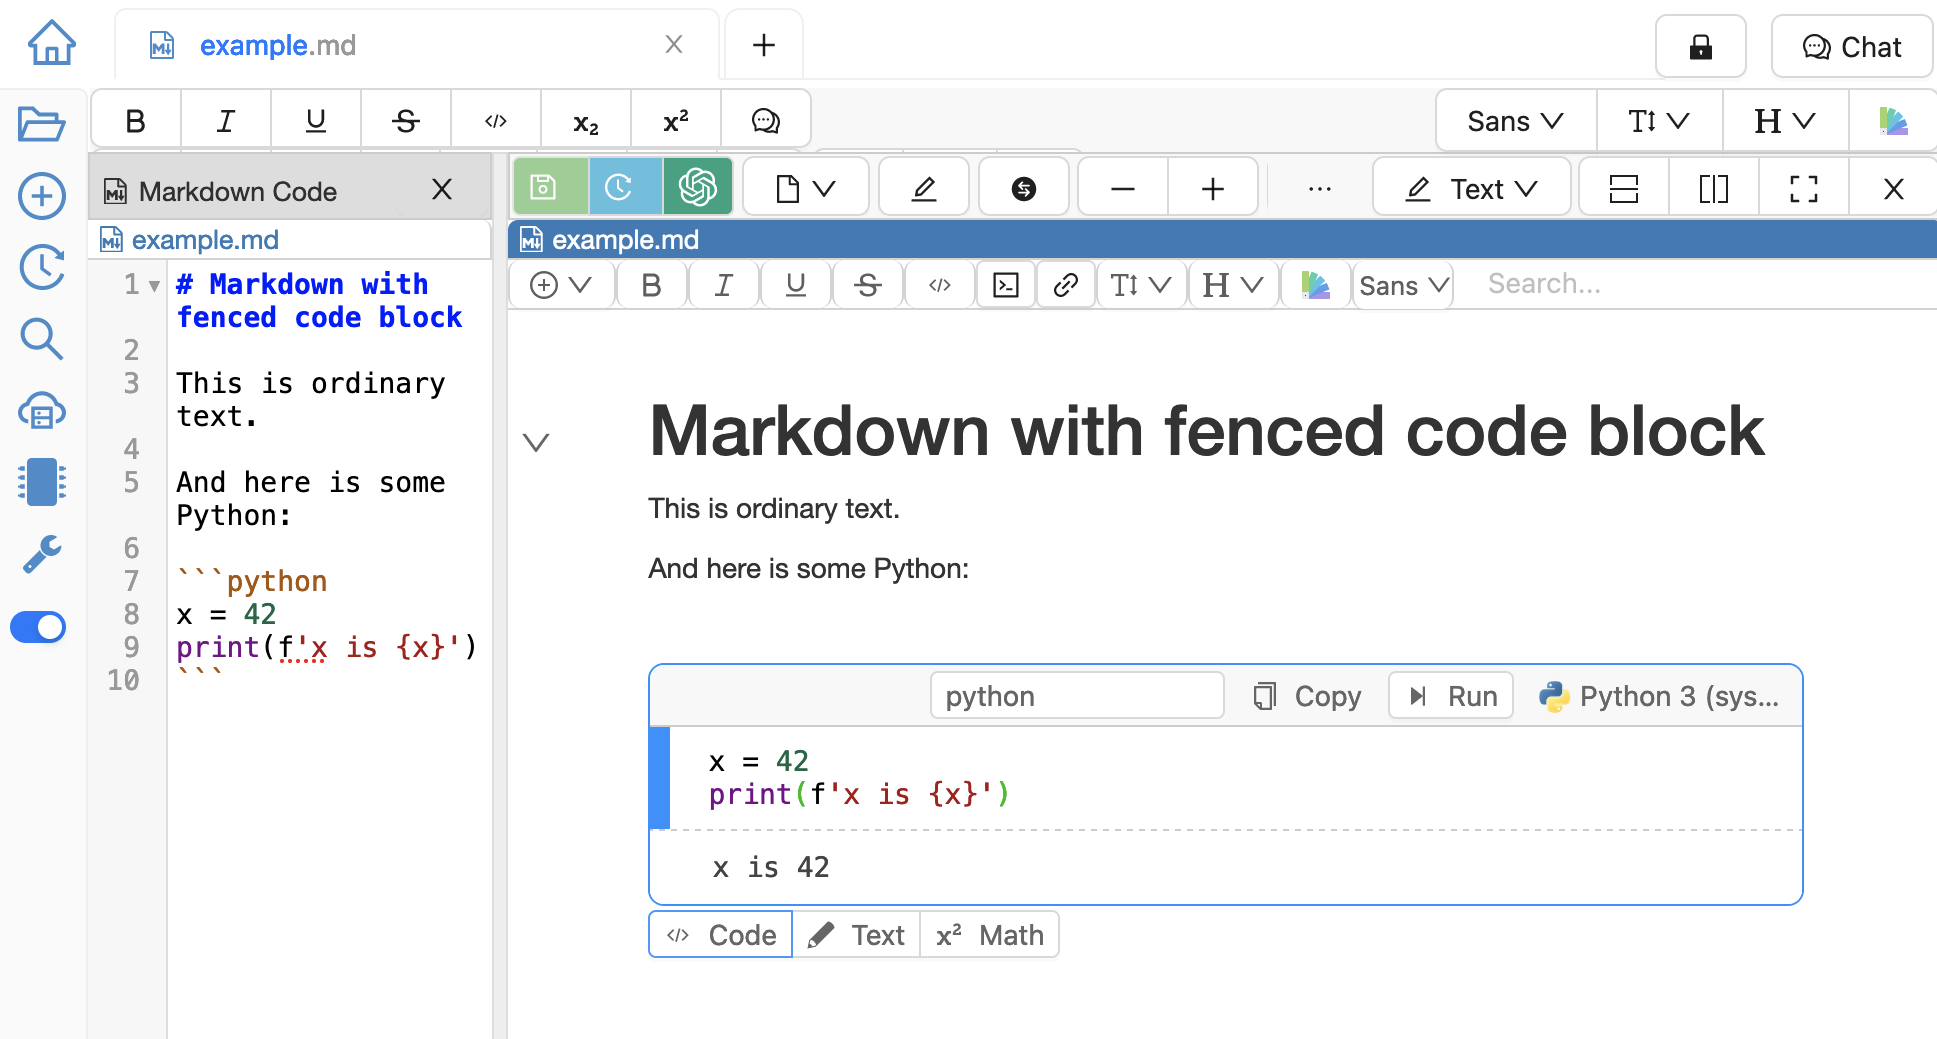
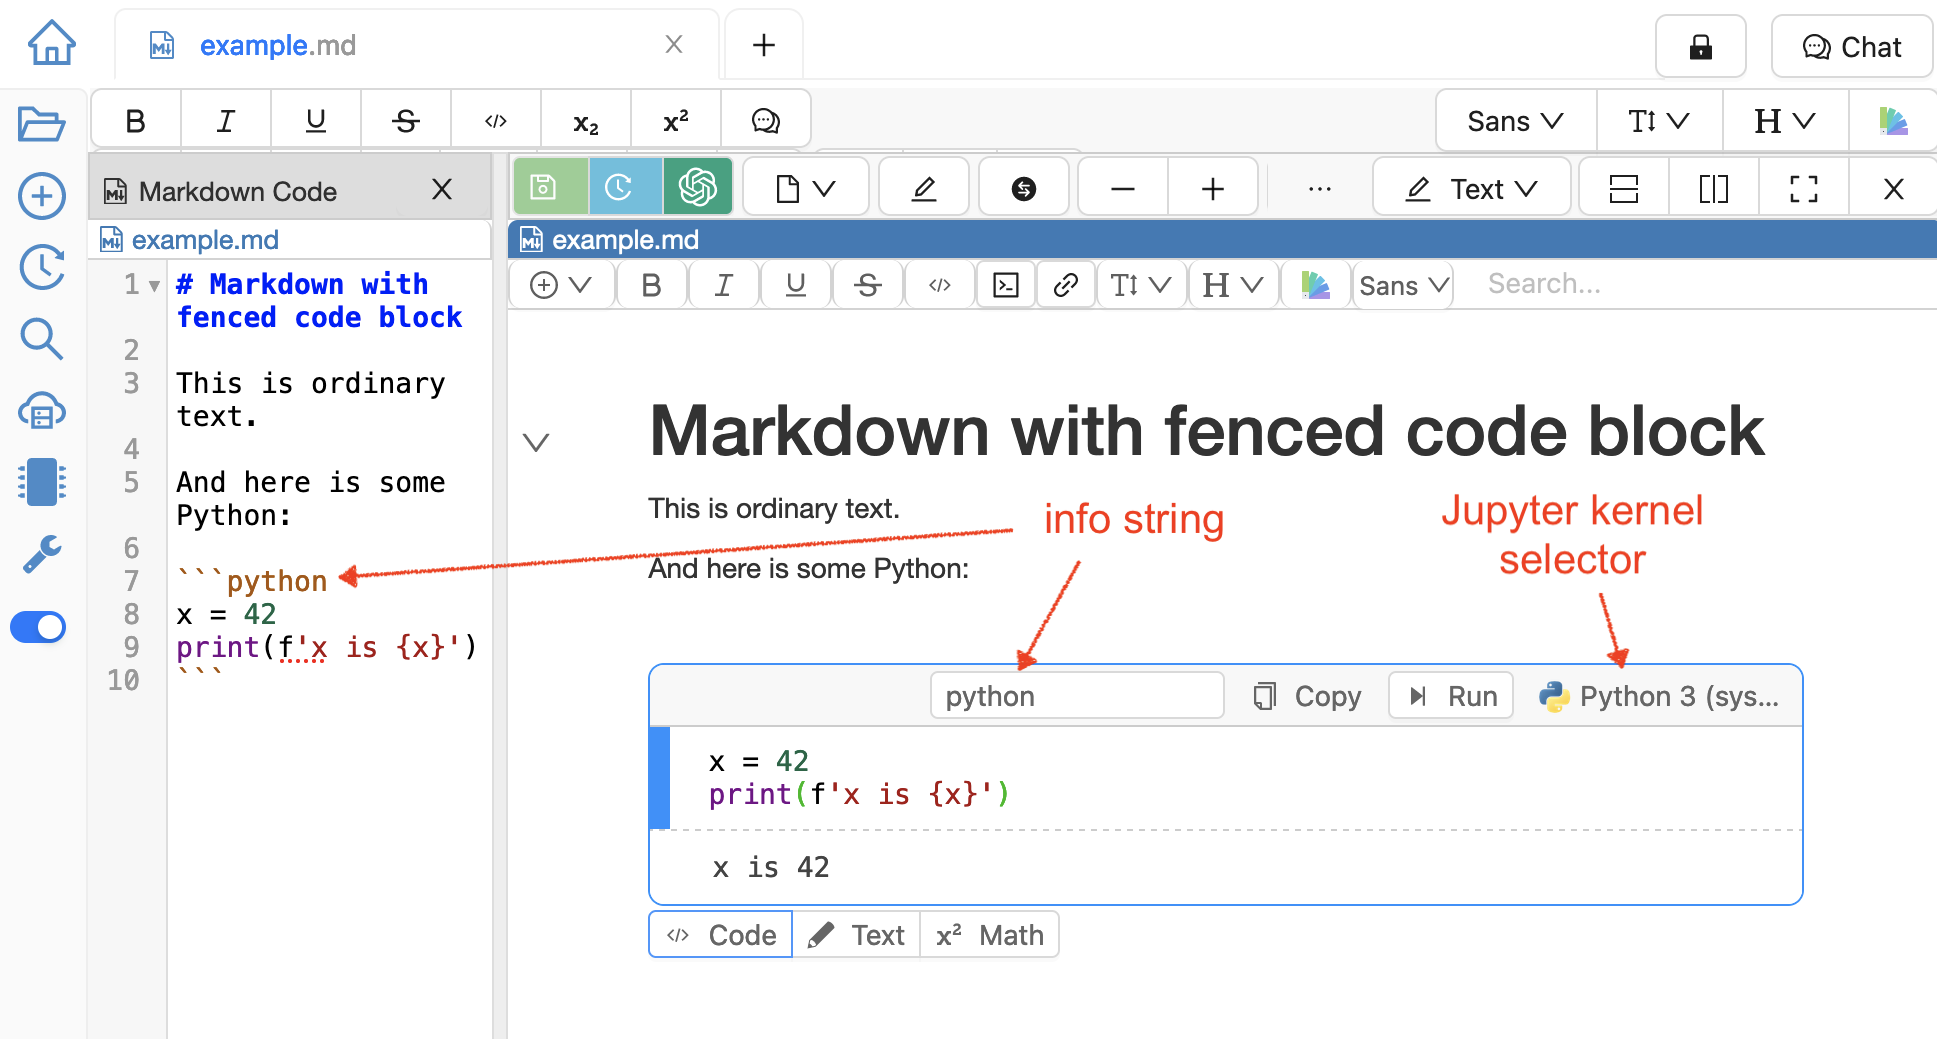
info strings

diff --git a/source/markdown.rst b/source/markdown.rst
@@ -135,12 +135,28 @@ Fenced Code Blocks
 
 Code in fenced code blocks can be executed using any available jupyter kernel. In the example, the "Python 3 (system wide)" kernel is active. Hover your cursor over the kernel indicator to expose a menu for selecting other kernels. Click "Run" to produce the output. Hover over the space below the output to get buttons for additional code cells. This feature even works if the document is published.
 
+The info string should start with the programming language want to use, for example "python", "sage", "bash", or "julia". Typing in the language will select one possible kernel. Use the Jupyter kernel selector if you would like a different kernel for the selected language.
+
+You can append descriptive text to the info string, such as "ex 1".
+
+
 .. figure:: img/md-fenced-exec.png
     :width: 100%
     :align: center
-    :alt: References section at bottom of file
+    :alt: execute fenced code block
 
     *fenced Python code cell inside a markdown file*
+
+
+If you evaluate a cell, everything above it with the *exact same info string* is always run. Clicking "Run" in the third cell in the following example will cause the first cell to be run before it, but not the second cell.
+
+.. figure:: img/md-fenced-info.png
+    :width: 100%
+    :align: center
+    :alt: matching info strings
+
+    *matching info strings "python ex1" in first and third cells*
+
 
 
 .. _markdown-hashtags:
